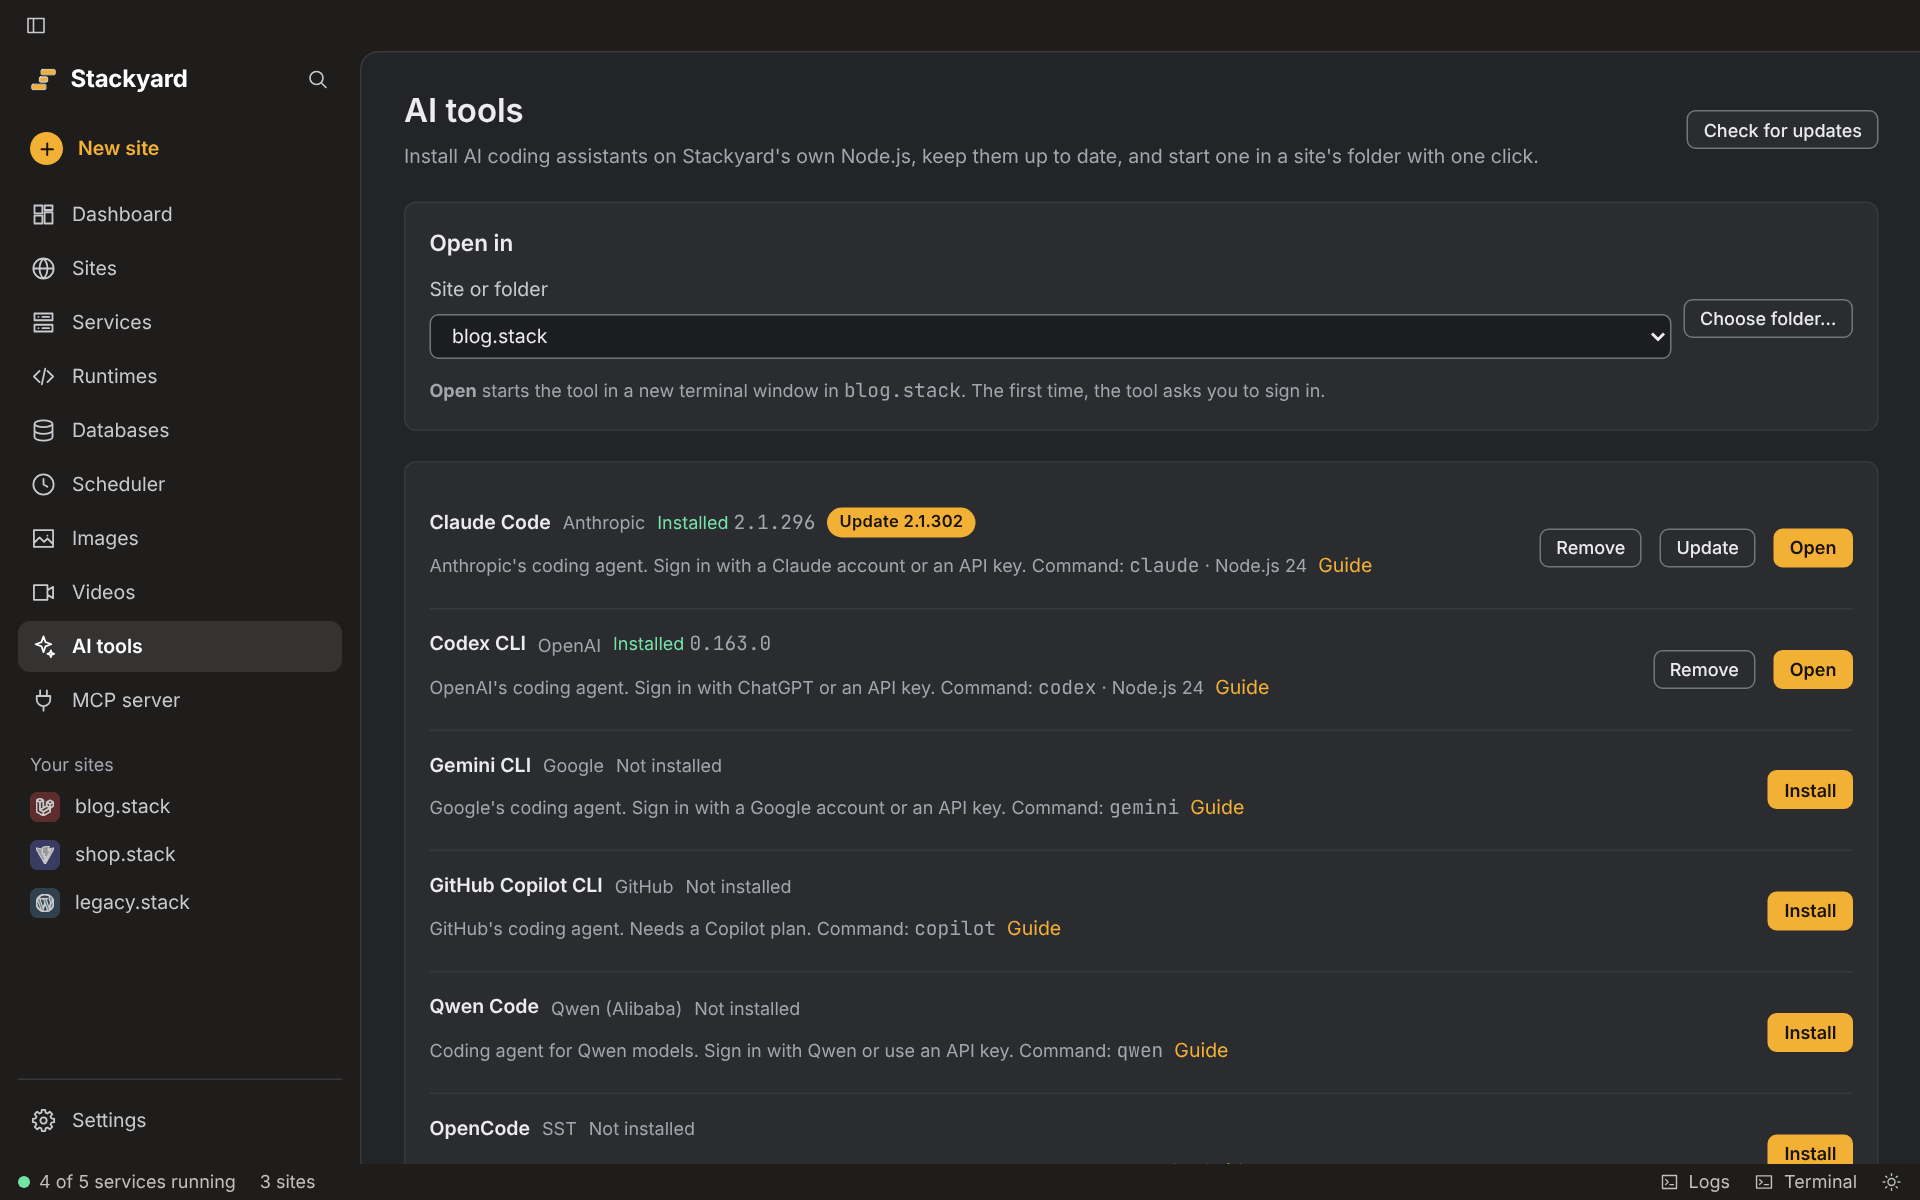
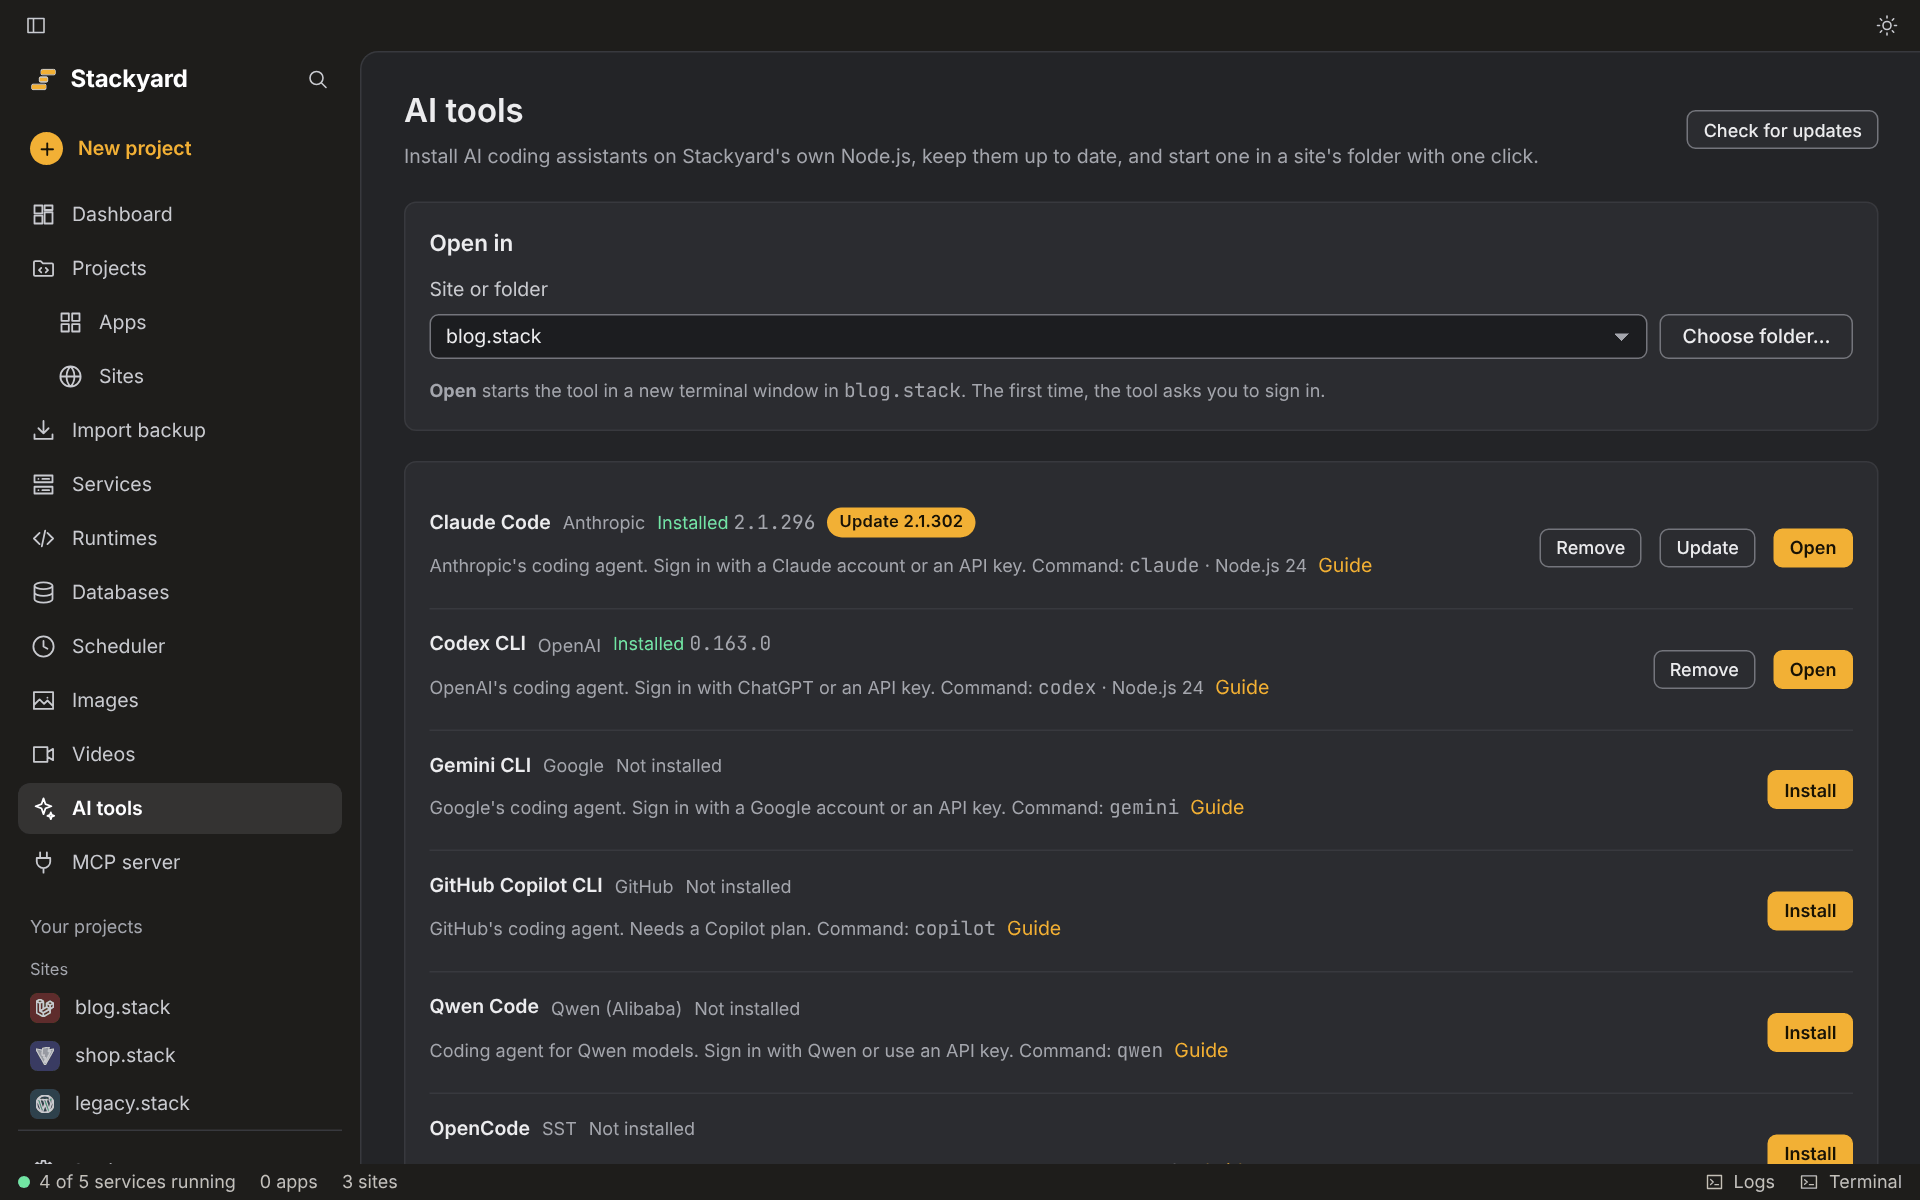
Retake screenshots in the current look, with Projects and Import backup
The screenshots were from 0.8.0 and the script stopped at the Sites screen,
whose fold button was renamed. The script now works with the current layout
(Projects/Apps/Sites mounted together, side bar scrolled back to the top),
shows MongoDB instead of Redis (Redis has no Windows build), and adds
projects.png and import.png. README and website show the new shots.

diff --git a/site/index.html b/site/index.html
@@ -239,11 +239,13 @@
     <h2>Built to stay out of your way</h2>
     <div class="tabs" role="tablist" aria-label="Screens">
       <button role="tab" aria-selected="true" data-shot="dashboard">Dashboard</button>
+      <button role="tab" aria-selected="false" data-shot="projects">Projects</button>
       <button role="tab" aria-selected="false" data-shot="sites">Sites</button>
       <button role="tab" aria-selected="false" data-shot="services">Services</button>
       <button role="tab" aria-selected="false" data-shot="runtimes">Runtimes</button>
       <button role="tab" aria-selected="false" data-shot="servers">Servers</button>
       <button role="tab" aria-selected="false" data-shot="wordpress">WordPress</button>
+      <button role="tab" aria-selected="false" data-shot="import">Import backup</button>
       <button role="tab" aria-selected="false" data-shot="databases">Databases</button>
       <button role="tab" aria-selected="false" data-shot="logs">Logs</button>
       <button role="tab" aria-selected="false" data-shot="terminal">Terminal</button>
@@ -254,7 +256,7 @@
       <button role="tab" aria-selected="false" data-shot="light">Light theme</button>
     </div>
     <figure class="shot">
-      <img id="tour-img" src="images/dashboard.png" alt="Dashboard with running services, sites, runtimes and the MCP server" width="1920" height="1200" loading="lazy">
+      <img id="tour-img" src="images/dashboard.png" alt="Dashboard with running services, projects and runtimes" width="1920" height="1200" loading="lazy">
     </figure>
   </div>
 </section>

diff --git a/site/app.js b/site/app.js
@@ -51,13 +51,15 @@
   // Screenshot tabs
   var img = document.getElementById("tour-img");
   var alts = {
-    dashboard: "Dashboard with running services, sites, runtimes and the MCP server",
+    dashboard: "Dashboard with running services, projects and runtimes",
+    projects: "Projects screen with the New project form and its starters",
     sites: "The Sites screen with three local HTTPS sites",
-    services: "Services screen: Caddy, MySQL, PostgreSQL, Redis and Mailpit",
+    import: "Import backup screen: drop a hosting panel backup or a zip with its .sql",
+    services: "Services screen: Caddy, MySQL, PostgreSQL, Mailpit and MongoDB",
     runtimes: "Runtimes screen with PHP 7.4 to 8.5, three versions installed",
     servers: "A site's Servers panel with an SFTP server and upload, download and browse buttons",
     databases: "Databases screen listing a database's tables",
-    wordpress: "A WordPress site's Staging tab: stagings and a new staging",
+    wordpress: "A WordPress copy of a live site with Pull, Push and its Staging tab",
     logs: "The Logs panel with warnings and errors highlighted",
     terminal: "The Terminal tab in the bottom panel, opened in a site's folder",
     images: "Image optimizer making WebP and AVIF copies of images",

diff --git a/README.md b/README.md
@@ -196,32 +196,36 @@ stackyard use php 8.3                  # pin a version for the current project
 
 <table>
 <tr>
-<td width="50%"><img src="docs/images/dashboard.png" alt="Dashboard with running services, sites, runtimes and the MCP server"></td>
-<td width="50%"><img src="docs/images/services.png" alt="Services screen: Caddy, MySQL, PostgreSQL, Redis and Mailpit with start and stop buttons"></td>
+<td width="50%"><img src="docs/images/dashboard.png" alt="Dashboard with running services, projects and runtimes"></td>
+<td width="50%"><img src="docs/images/projects.png" alt="Projects screen with the New project form: App or Site, and starters for WordPress, WooCommerce, Laravel, Astro, Next.js, React, Vue, Svelte and more"></td>
 </tr>
 <tr>
+<td><img src="docs/images/sites.png" alt="Sites screen: three local HTTPS sites running Laravel, Vite and WordPress, with pictures and icon buttons"></td>
+<td><img src="docs/images/wordpress.png" alt="A WordPress copy of a live site: Pull from live and Push to live, and its Staging tab with a staging and a form for a new one"></td>
+</tr>
+<tr>
+<td><img src="docs/images/import.png" alt="Import backup screen: drop a hosting panel backup or a zip with its .sql to make a local site"></td>
+<td><img src="docs/images/servers.png" alt="A site's Servers & Git tab with an SFTP server and upload, download and browse buttons"></td>
+</tr>
+<tr>
+<td><img src="docs/images/services.png" alt="Services screen: Caddy, MySQL, PostgreSQL, Mailpit and MongoDB, with turned-off services below"></td>
 <td><img src="docs/images/runtimes.png" alt="Runtimes screen with PHP 7.4 to 8.5, three versions installed"></td>
-<td><img src="docs/images/servers.png" alt="A site's Servers panel with an SFTP server and upload, download and browse buttons"></td>
 </tr>
 <tr>
 <td><img src="docs/images/databases.png" alt="Databases screen listing a database's tables, with Query and Backups tabs"></td>
-<td><img src="docs/images/logs.png" alt="The Logs panel under the Dashboard, with warnings and errors highlighted"></td>
+<td><img src="docs/images/logs.png" alt="The Logs panel under the Dashboard, with search and per-service logs"></td>
+</tr>
+<tr>
+<td><img src="docs/images/terminal.png" alt="The Terminal tab in the bottom panel, opened in a site's folder, running stackyard status, php -v and node -v"></td>
+<td><img src="docs/images/ai-tools.png" alt="AI tools screen: Claude Code and Codex installed, Gemini CLI and others ready to install, each opening in a chosen site's folder"></td>
 </tr>
 <tr>
 <td><img src="docs/images/images.png" alt="Image optimizer making WebP and AVIF copies of images"></td>
 <td><img src="docs/images/videos.png" alt="Video optimizer making MP4, WebM and GIF copies of videos"></td>
 </tr>
 <tr>
-<td><img src="docs/images/ai-tools.png" alt="AI tools screen: Claude Code and Codex installed, Gemini CLI and others ready to install, each opening in a chosen site's folder"></td>
-<td><img src="docs/images/settings.png" alt="Settings screen with updates, theme, accent color, language and modules you can switch off"></td>
-</tr>
-<tr>
-<td><img src="docs/images/wordpress.png" alt="A WordPress site's Staging tab: a staging copy and a form for a new staging"></td>
-<td><img src="docs/images/terminal.png" alt="The Terminal tab in the bottom panel, opened in a site's folder, running stackyard status, php -v and node -v"></td>
-</tr>
-<tr>
+<td><img src="docs/images/settings.png" alt="Settings screen with updates, theme, accent color, icons, density and zoom"></td>
 <td><img src="docs/images/light.png" alt="The Dashboard in the light theme"></td>
-<td></td>
 </tr>
 </table>
 
